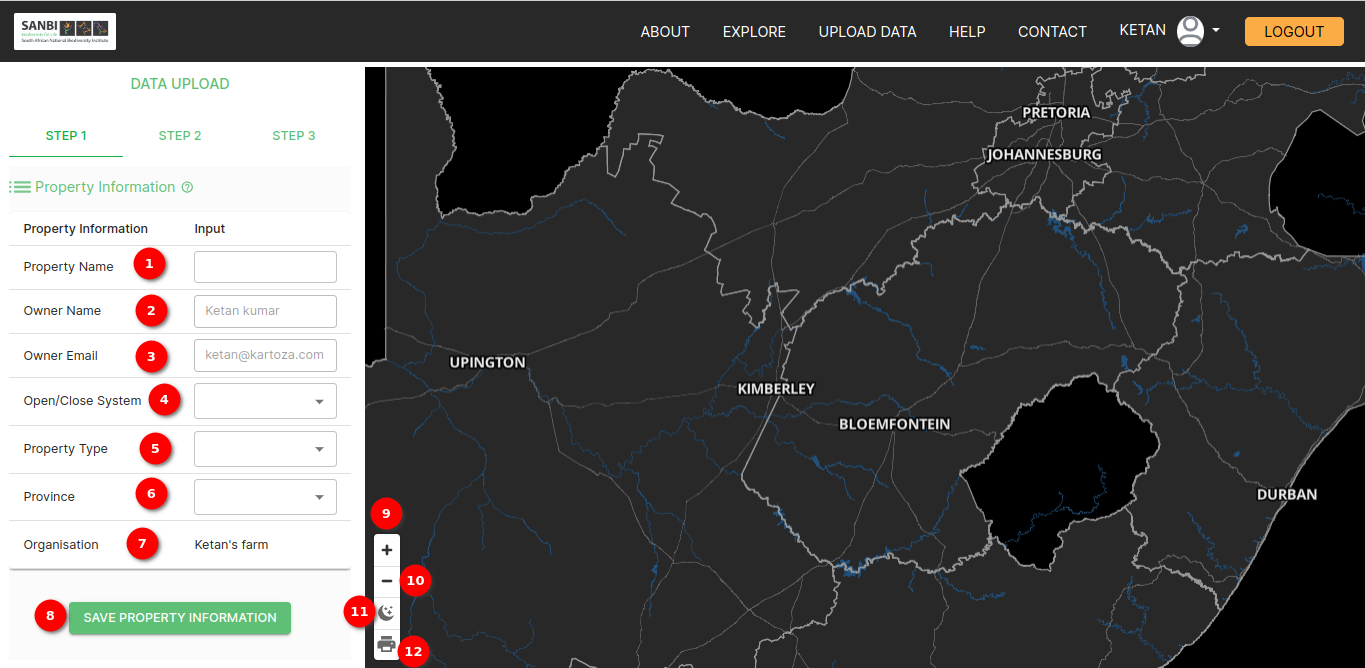
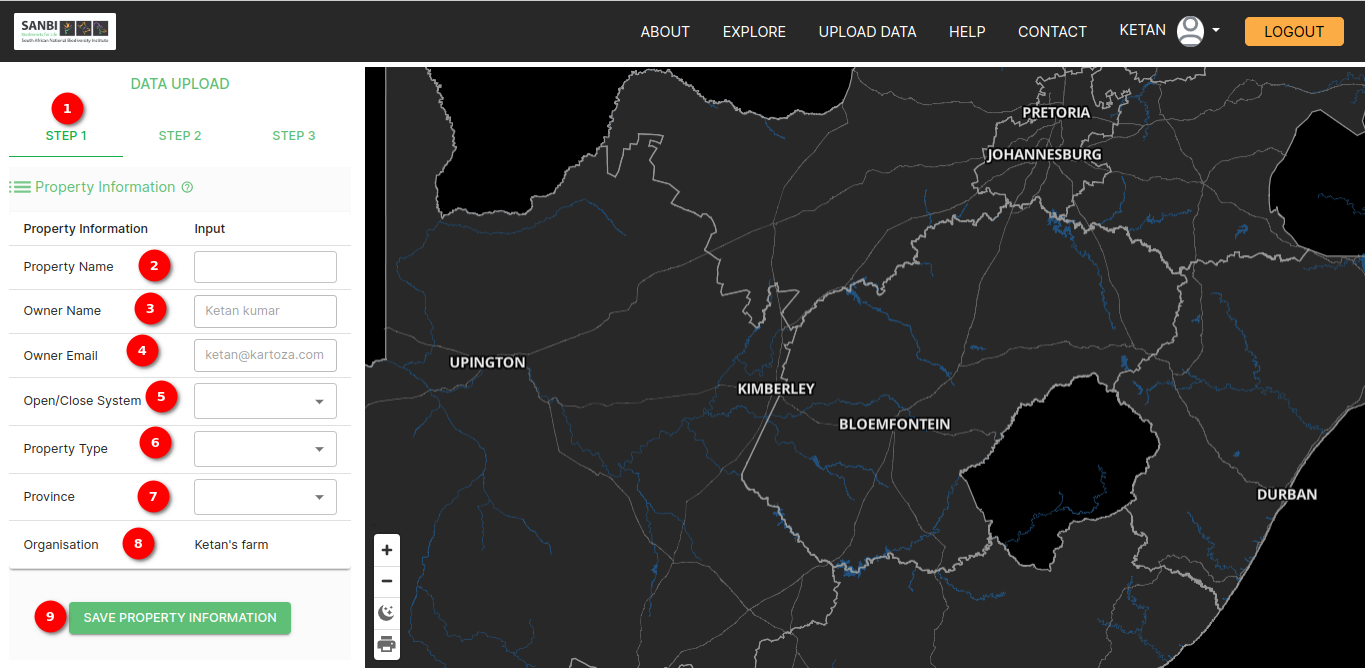
Remove duplicate documentation

diff --git a/docs/src/user/manual/data-upload/panel.md b/docs/src/user/manual/data-upload/panel.md
@@ -48,28 +48,23 @@ The Data Table Page serves as the central hub for viewing and interacting with y
 
 The Property Information Form is the initial stage of data upload. It's designed to capture essential details about the property being added to the dataset. Here's a breakdown of the form fields:
 
-1. **Property Name**: Enter the name of the property in the `Property Name` input field.
+1. **Step 1**: First step of data upload.
 
-2. **Owner Name**: The `Owner Name` field is pre-filled with the default owner name.
+2. **Property Name**: Enter the name of the property in the `Property Name` input field.
 
-3. **Owner Email**: Similar to the owner name, the `Owner Email` field is pre-filled with the default owner email.
+3. **Owner Name**: The `Owner Name` field is pre-filled with the default owner name.
 
-4. **Open/Close System**: Select the open or close system for the property from the dropdown menu. This choice reflects the accessibility status of the property.
+4. **Owner Email**: Similar to the owner name, the `Owner Email` field is pre-filled with the default owner email.
 
-5. **Property Type**: Choose the property type from the `Property Type` dropdown menu. This classification helps categorize the property.
+5. **Open/Close System**: Select the open or close system for the property from the dropdown menu. This choice reflects the accessibility status of the property.
 
-6. **Province**: Select the province or region where the property is located from the `Province` dropdown. This information is vital for geographic referencing.
+6. **Property Type**: Choose the property type from the `Property Type` dropdown menu. This classification helps categorize the property.
 
-7. **Organisation**: The `Organisation` field displays the name of the organization associated with the property.
+7. **Province**: Select the province or region where the property is located from the `Province` dropdown. This information is vital for geographic referencing.
 
-8. **SAVE PROPERTY INFORMATION**: Once you've filled in all the necessary details, click the `SAVE PROPERTY INFORMATION` button to store this information and proceed with the data upload process.
+8. **Organisation**: The `Organisation` displays the name of the organization.
 
-9. **Zoom In**: Click the plus (+) sign to zoom in on the map for a closer view of specific areas.
-
-10. **Zoom Out**: Click the minus (-) sign to zoom out and get a broader view of the map.
-
-11. **Dark/Light Mode**: Toggle between a dark and light mode by clicking on the moon and sun icons. This feature provides visual comfort based on your preference.
-12. **Print**: Click the print icon to generate a printable version of the map for your records or to share with others.
+9. **SAVE PROPERTY INFORMATION**: Once you've filled in all the necessary details, click the `SAVE PROPERTY INFORMATION` button to store this information and proceed with the data upload process.
 
 The map enhances your ability to work with spatial data and provides valuable insights into the geographical aspects of your records.
 
